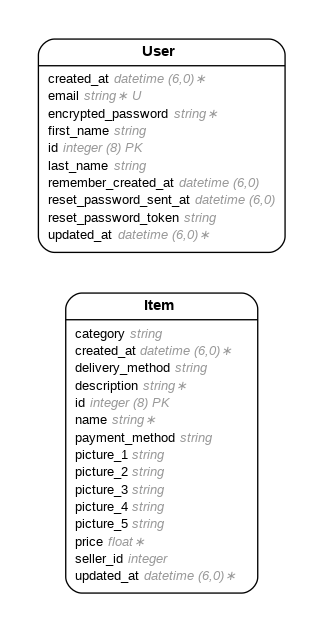
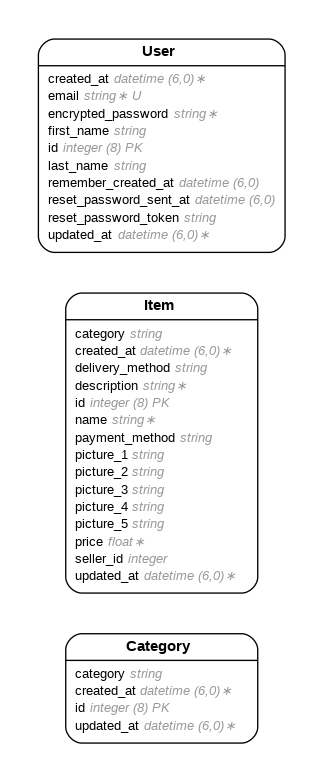
Created new table for category

Changed region(s): [[0.0929, 0.0301, 0.8978, 0.962]]

diff --git a/db/schema.rb b/db/schema.rb
@@ -10,9 +10,15 @@
 #
 # It's strongly recommended that you check this file into your version control system.
 
-ActiveRecord::Schema[7.1].define(version: 2025_05_20_062158) do
+ActiveRecord::Schema[7.1].define(version: 2025_05_20_093100) do
   # These are extensions that must be enabled in order to support this database
   enable_extension "plpgsql"
+
+  create_table "categories", force: :cascade do |t|
+    t.string "category"
+    t.datetime "created_at", null: false
+    t.datetime "updated_at", null: false
+  end
 
   create_table "items", force: :cascade do |t|
     t.string "category"

diff --git a/app/models/category.rb b/app/models/category.rb
@@ -1,0 +1,11 @@
+# == Schema Information
+#
+# Table name: categories
+#
+#  id         :bigint           not null, primary key
+#  category   :string
+#  created_at :datetime         not null
+#  updated_at :datetime         not null
+#
+class Category < ApplicationRecord
+end

diff --git a/db/migrate/20250520093100_create_categories.rb b/db/migrate/20250520093100_create_categories.rb
@@ -1,0 +1,9 @@
+class CreateCategories < ActiveRecord::Migration[7.1]
+  def change
+    create_table :categories do |t|
+      t.string :category
+
+      t.timestamps
+    end
+  end
+end
